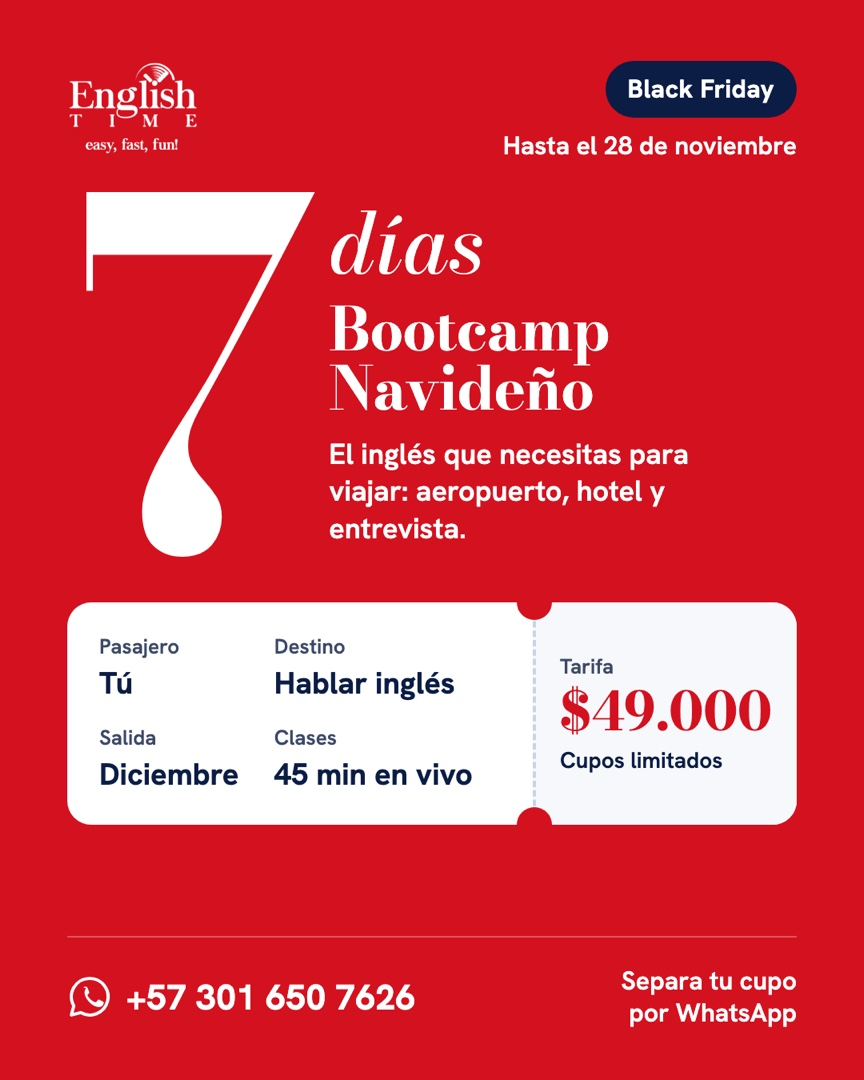
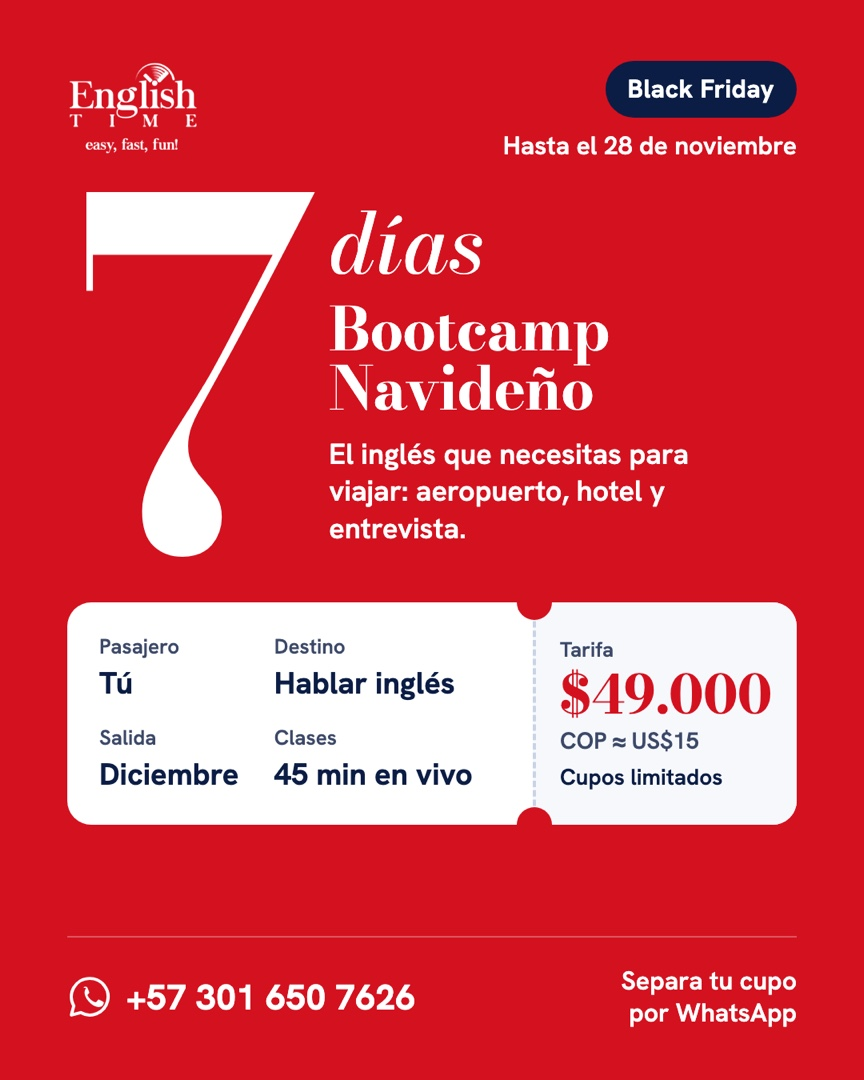
Dólares en las 5 publicidades y "clases grupales" en vez de "clases en grupo"
- Cada precio de las piezas dice COP y su equivalente aproximado en dólares. Lo calcula el script de piezas.html con la misma TRM y el mismo redondeo de usd().
- Plan 90 queda un poco más compacto para que quepan los dólares bajo cada precio.
- El sitio, el SEO y llms.txt dicen "clases grupales".

Changed region(s): [[0.625, 0.5806, 0.9062, 0.7333]]

diff --git a/web/public/piezas/piezas.html b/web/public/piezas/piezas.html
@@ -101,7 +101,7 @@ body.solo .ad:not(.on) { display: none; }
 }
 .pass .stub::before { top: -22px; }
 .pass .stub::after { bottom: -22px; }
-.pass .stub span { font-size: 26px; font-weight: 600; color: #5a6680; }
+.pass .stub > span { font-size: 26px; font-weight: 600; color: #5a6680; }
 .pass .stub b { font-family: 'Bodoni Moda', serif; font-size: 66px; font-weight: 700; color: var(--rojo); line-height: 1; margin-top: 6px; }
 .pass .stub i { font-style: normal; font-size: 28px; font-weight: 600; margin-top: 10px; color: var(--noche); }
 
@@ -140,7 +140,7 @@ body.solo .ad:not(.on) { display: none; }
   padding: 18px 0; border-top: 2px solid rgba(255,255,255,.18);
 }
 .tabla .row:last-child { border-bottom: 2px solid rgba(255,255,255,.18); }
-.tabla .row span { font-size: 38px; font-weight: 600; }
+.tabla .row > span { font-size: 38px; font-weight: 600; }
 .tabla .row s { font-size: 32px; opacity: .55; }
 .tabla .row b { font-family: 'Bodoni Moda', serif; font-size: 54px; font-weight: 700; }
 
@@ -155,7 +155,7 @@ body.solo .ad:not(.on) { display: none; }
 .congela p { font-size: 37px; line-height: 1.32; margin-top: 28px; max-width: 860px; color: #24345a; position: relative; z-index: 2; }
 .precios { display: flex; gap: 18px; margin-top: 48px; position: relative; z-index: 2; }
 .precios div { flex: 1; min-width: 0; background: #fff; border-radius: 26px; padding: 24px 22px 22px; }
-.precios span { display: block; font-size: 28px; font-weight: 600; color: #4a5a7d; }
+.precios div > span { display: block; font-size: 28px; font-weight: 600; color: #4a5a7d; }
 .precios b { display: block; font-family: 'Bodoni Moda', serif; font-size: 50px; font-weight: 700; margin-top: 6px; }
 .congela .cuotas { margin-top: 30px; font-size: 36px; font-weight: 700; color: var(--rojo); position: relative; z-index: 2; }
 /* precios: tamaño óptico de texto para que los trazos finos aguanten en el teléfono */
@@ -167,14 +167,31 @@ body.solo .ad:not(.on) { display: none; }
 .dosporuno h2, .congela h2 { font-weight: 700; font-optical-sizing: none; font-variation-settings: 'opsz' 28; letter-spacing: -.01em; }
 .dosporuno p, .congela p { color: var(--noche); font-weight: 500; }
 .dosporuno .foot .note, .congela .foot .note, .dosporuno .badge small, .congela .badge small { opacity: 1; font-weight: 600; }
-.pass .f span, .pass .stub span { color: #3B4868; }
-.precios span { color: #33415F; }
+.pass .f span, .pass .stub > span { color: #3B4868; }
+.precios div > span { color: #33415F; }
 .plan90 h2, .bootcamp .side h2 { font-weight: 700; font-optical-sizing: none; font-variation-settings: 'opsz' 28; letter-spacing: -.01em; }
 .tabla .row s { opacity: .72; }
 .bootcamp .badge small, .bootcamp .foot .note, .bootcamp .side p, .plan90 .foot .note { opacity: 1; font-weight: 600; }
 .dosporuno .num .x { font-weight: 500; font-optical-sizing: none; font-variation-settings: 'opsz' 6; }
 .stamp span { font-weight: 600; font-optical-sizing: none; font-variation-settings: 'opsz' 18; }
 .portada .intro, .plan90 .sub, .portada .badge small, .plan90 .badge small { opacity: .95; }
+
+/* Moneda: cada precio dice COP y su equivalente aproximado en dólares (lo calcula el script del final con la TRM). */
+.moneda {
+  display: block; font-family: 'Hanken Grotesk', sans-serif; font-style: normal; font-size: 29px; font-weight: 600;
+  line-height: 1.18; letter-spacing: 0; font-variation-settings: normal; white-space: nowrap;
+}
+.portada li .monto { display: flex; align-items: center; gap: 16px; }
+.portada li .moneda { font-size: 28px; opacity: .88; }
+.pass .stub .moneda { color: #3B4868; margin-top: 8px; }
+.tabla .row { padding: 13px 0; }
+.plan90 .num { font-size: 330px; }
+.plan90 .hero { margin-top: 26px; }
+.plan90 h2 { margin-top: 34px; }
+.tabla { margin-top: 30px; }
+.tabla .row b { text-align: right; }
+.tabla .row .moneda { opacity: .88; margin-top: 2px; }
+.precios .moneda { color: #33415F; margin-top: 6px; font-size: 27px; }
 /* Números gigantes, cursivas y titular de portada: corte de Bodoni con trazos finos más gruesos,
    para que no "vibren" ni se pierdan en el teléfono. */
 .num, .portada h1 { font-optical-sizing: none; font-variation-settings: 'opsz' 36; }
@@ -217,8 +234,8 @@ body.solo .ad:not(.on) { display: none; }
   <h1>Es hora de hablar inglés.</h1>
   <p class="intro">Cuatro promociones para empezar ya.</p>
   <ul>
-    <li>Bootcamp Navideño <b>$49.000</b></li>
-    <li>Paga un mes, estudia dos <b>$480.000</b></li>
+    <li>Bootcamp Navideño <span class="monto"><b>$49.000</b><small class="moneda">COP<br>≈ <span data-cop="49000">US$15</span></small></span></li>
+    <li>Paga un mes, estudia dos <span class="monto"><b>$480.000</b><small class="moneda">COP<br>≈ <span data-cop="480000">US$150</span></small></span></li>
     <li>Plan 90, trimestral <b>15% menos</b></li>
     <li>Congela tu precio <b>2026 en 2027</b></li>
   </ul>
@@ -250,7 +267,7 @@ body.solo .ad:not(.on) { display: none; }
       <div class="f"><span>Salida</span><strong>Diciembre</strong></div>
       <div class="f"><span>Clases</span><strong>45 min en vivo</strong></div>
     </div>
-    <div class="stub"><span>Tarifa</span><b>$49.000</b><i>Cupos limitados</i></div>
+    <div class="stub"><span>Tarifa</span><b>$49.000</b><small class="moneda">COP ≈ <span data-cop="49000">US$15</span></small><i>Cupos limitados</i></div>
   </div>
   <div class="foot">
     <div class="wa"><svg><use href="#wa"/></svg>+57 301 650 7626</div>
@@ -267,7 +284,7 @@ body.solo .ad:not(.on) { display: none; }
   </div>
   <div class="num">2<span class="x">×</span>1</div>
   <h2>Paga un mes, estudia dos.</h2>
-  <p>Pack de 8 clases al mes, 2 veces por semana. Pagas <strong>$480.000</strong> y el segundo mes va por nuestra cuenta.</p>
+  <p>Pack de 8 clases al mes, 2 veces por semana. Pagas <strong>$480.000 COP</strong> (unos <span data-cop="480000">US$150</span>) y el segundo mes va por nuestra cuenta.</p>
   <div class="stamp"><div><span>solo</span><b>5</b><span>cupos</span></div></div>
   <img class="mascota" src="../assets/mascota.webp" alt="">
   <div class="foot">
@@ -287,13 +304,13 @@ body.solo .ad:not(.on) { display: none; }
   <h2>Tres meses, 15% menos.</h2>
   <p class="sub">Plan trimestral de clases 1 a 1, en un solo pago.</p>
   <div class="tabla">
-    <div class="row"><span>2 veces por semana</span><s>$1.440.000</s><b>$1.220.000</b></div>
-    <div class="row"><span>3 veces por semana</span><s>$2.100.000</s><b>$1.780.000</b></div>
-    <div class="row"><span>4 veces por semana</span><s>$2.550.000</s><b>$2.160.000</b></div>
+    <div class="row"><span>2 veces por semana</span><s>$1.440.000</s><b>$1.220.000<small class="moneda">COP ≈ <span data-cop="1220000">US$375</span></small></b></div>
+    <div class="row"><span>3 veces por semana</span><s>$2.100.000</s><b>$1.780.000<small class="moneda">COP ≈ <span data-cop="1780000">US$550</span></small></b></div>
+    <div class="row"><span>4 veces por semana</span><s>$2.550.000</s><b>$2.160.000<small class="moneda">COP ≈ <span data-cop="2160000">US$665</span></small></b></div>
   </div>
   <div class="foot">
     <div class="wa"><svg><use href="#wa"/></svg>+57 301 650 7626</div>
-    <div class="note">Ahorras hasta $390.000</div>
+    <div class="note">Ahorras hasta<br>$390.000 COP ≈ <span data-cop="390000">US$120</span></div>
   </div>
 </section>
 
@@ -321,9 +338,9 @@ body.solo .ad:not(.on) { display: none; }
   <h2>Congela tu precio.</h2>
   <p>Inscríbete antes del 28 de noviembre y estudia todo 2027 con la tarifa de 2026.</p>
   <div class="precios">
-    <div><span>2 por semana</span><b>$480.000</b></div>
-    <div><span>3 por semana</span><b>$700.000</b></div>
-    <div><span>4 por semana</span><b>$850.000</b></div>
+    <div><span>2 por semana</span><b>$480.000</b><small class="moneda">COP ≈ <span data-cop="480000">US$150</span></small></div>
+    <div><span>3 por semana</span><b>$700.000</b><small class="moneda">COP ≈ <span data-cop="700000">US$215</span></small></div>
+    <div><span>4 por semana</span><b>$850.000</b><small class="moneda">COP ≈ <span data-cop="850000">US$265</span></small></div>
   </div>
   <div class="cuotas">Tu primer mes en dos cuotas: 50% hoy y 50% en enero.</div>
   <div class="foot">
@@ -333,6 +350,14 @@ body.solo .ad:not(.on) { display: none; }
 </section>
 
 <script>
+  // Dólares aproximados con la misma TRM y el mismo redondeo de usd() en lib/contenido.tsx.
+  // Si cambia la TRM, cámbiala aquí y allá, y corre npm run piezas.
+  const TRM = 3237.83;
+  document.querySelectorAll('[data-cop]').forEach((el) => {
+    const v = Number(el.dataset.cop) / TRM, r = v >= 100 ? Math.round(v / 5) * 5 : Math.round(v);
+    el.textContent = 'US$' + r.toLocaleString('en-US');
+  });
+
   const p = new URLSearchParams(location.search).get('p');
   if (p) {
     document.body.classList.add('solo');

diff --git a/web/lib/contenido.tsx b/web/lib/contenido.tsx
@@ -9,7 +9,7 @@ export const SITIO = (process.env.NEXT_PUBLIC_SITE_URL ?? 'https://englishtime.c
 export const NEGOCIO = {
   nombre: 'English Time',
   lema: 'easy, fast, fun!',
-  descripcion: 'Academia de inglés en línea con clases en vivo por Zoom, particulares 1 a 1 y en grupo, para estudiantes en cualquier país. Tú escoges el horario, empiezas en tu nivel, hablas desde el primer día y tus clases particulares nunca se pierden: si no puedes asistir, se reprograman.',
+  descripcion: 'Academia de inglés en línea con clases en vivo por Zoom, particulares 1 a 1 y grupales, para estudiantes en cualquier país. Tú escoges el horario, empiezas en tu nivel, hablas desde el primer día y tus clases particulares nunca se pierden: si no puedes asistir, se reprograman.',
 };
 
 export const WHATSAPP = '573016507626';
@@ -91,7 +91,7 @@ export const ESCENAS: Escena[] = [
 ];
 
 export const VERSUS: { antes: string; despues: string }[] = [
-  { antes: 'Salones de 30, donde hablas dos minutos por clase.', despues: 'Clases particulares 1 a 1 o en grupo, hechas para que hables.' },
+  { antes: 'Salones de 30, donde hablas dos minutos por clase.', despues: 'Clases particulares 1 a 1 o grupales, hechas para que hables.' },
   { antes: 'Si faltas a una clase, la pierdes.', despues: 'Si no puedes asistir, tu clase se reprograma. Nunca la pierdes.' },
   { antes: 'Gramática en el tablero y cero conversación.', despues: 'Hablas desde el primer día, a tu nivel.' },
   { antes: 'Horarios fijos y tráfico para llegar a la academia.', despues: 'En vivo por Zoom, desde tu casa y en el horario que tú escojas.' },
@@ -101,7 +101,7 @@ export const VERSUS: { antes: string; despues: string }[] = [
 
 export const PASOS: { titulo: string; texto: string }[] = [
   { titulo: 'Le escribes a Luis por WhatsApp.', texto: 'Le cuentas para qué quieres el inglés y cuánto tiempo tienes.' },
-  { titulo: 'Escoges tu plan y tu horario.', texto: 'Clases particulares o en grupo, un plan mensual o una promo de Black Friday.' },
+  { titulo: 'Escoges tu plan y tu horario.', texto: 'Clases particulares o grupales, un plan mensual o una promo de Black Friday.' },
   { titulo: 'Hablas en tu primera clase.', texto: 'Desde el primer día, a tu nivel y sin pena.' },
 ];
 
@@ -112,7 +112,7 @@ export const CINTA: { texto: string; destacado?: string }[] = [
   { texto: 'Paga un mes, estudia dos' },
   { texto: 'Plan 90: ', destacado: '15% menos' },
   { texto: 'Congela tu precio ', destacado: '2026' },
-  { texto: 'Clases particulares y en grupo por Zoom' },
+  { texto: 'Clases particulares y grupales por Zoom' },
   { texto: 'Tus clases nunca se pierden' },
   { texto: 'Preparación para la ciudadanía americana' },
 ];
@@ -178,7 +178,7 @@ export const PLANES: { veces: string; clases: string; precio: string; porClase: 
 ];
 
 export const PREGUNTAS: { pregunta: string; respuesta: string }[] = [
-  { pregunta: '¿Hay clases particulares y clases en grupo?', respuesta: 'Sí, las dos, siempre en vivo por Zoom. En las clases particulares 1 a 1 estás solo con tu profe y escoges el horario. En las clases en grupo estudias con otros estudiantes, en un horario fijo y a un precio más bajo.' },
+  { pregunta: '¿Hay clases particulares y clases grupales?', respuesta: 'Sí, las dos, siempre en vivo por Zoom. En las clases particulares 1 a 1 estás solo con tu profe y escoges el horario. En las clases grupales estudias con otros estudiantes, en un horario fijo y a un precio más bajo.' },
   { pregunta: '¿Cómo son las clases de inglés personalizadas?', respuesta: 'Son clases 1 a 1 en vivo por Zoom: solo tú y tu profe. Avanzas a tu ritmo, en tu nivel y con conversación desde el primer día.' },
   { pregunta: '¿Las clases de inglés son online o presenciales?', respuesta: 'Son online, en vivo por Zoom. Puedes tomarlas desde cualquier país del mundo con una conexión a internet, y el horario se acuerda según tu zona horaria.' },
   { pregunta: '¿Qué pasa si no puedo asistir a una clase?', respuesta: 'Tu clase no se pierde: se reprograma para otro día y otra hora. Esto aplica para las clases personalizadas 1 a 1.' },
@@ -239,9 +239,9 @@ export const MODALIDADES: { id: 'particulares' | 'grupo'; titulo: string; texto:
     precio: '$480.000', detalle: 'COP al mes', boton: 'Ver los planes',
   },
   {
-    id: 'grupo', titulo: 'Clases en grupo',
+    id: 'grupo', titulo: 'Clases grupales',
     texto: 'Estudias en vivo con otros estudiantes, en un horario fijo y a un precio más bajo. Como el Bootcamp Navideño de diciembre.',
-    precio: '$49.000', detalle: 'COP el Bootcamp de 7 días', boton: 'Preguntar por los grupos',
-    mensaje: 'Hola Luis, quiero información sobre las clases de inglés en grupo.',
+    precio: '$49.000', detalle: 'COP el Bootcamp de 7 días', boton: 'Preguntar por las clases grupales',
+    mensaje: 'Hola Luis, quiero información sobre las clases grupales de inglés.',
   },
 ];

diff --git a/web/lib/seo.ts b/web/lib/seo.ts
@@ -2,11 +2,11 @@ import { FIN_PROMOS, GARANTIA, NEGOCIO, PLANES, PREGUNTAS, SITIO, TELEFONO, WHAT
 
 /* Palabras clave principales: guían títulos, descripciones y datos estructurados. */
 export const SEO = {
-  titulo: 'Clases de inglés online por Zoom: 1 a 1 y en grupo | English Time',
-  descripcion: 'Clases de inglés en vivo por Zoom, particulares 1 a 1 y en grupo, desde cualquier país. Preparación para certificaciones y ciudadanía americana. Precios en COP y USD.',
+  titulo: 'Clases de inglés online por Zoom: 1 a 1 y grupales | English Time',
+  descripcion: 'Clases de inglés en vivo por Zoom, particulares 1 a 1 y grupales, desde cualquier país. Preparación para certificaciones y ciudadanía americana. Precios en COP y USD.',
   palabrasClave: [
     'clases de inglés', 'clases de inglés online', 'clases de inglés personalizadas', 'aprender inglés',
-    'clases de inglés 1 a 1', 'clases particulares de inglés online', 'clases de inglés en grupo', 'profesor de inglés', 'inglés por Zoom', 'clases de inglés online desde cualquier país', 'clases de inglés Colombia',
+    'clases de inglés 1 a 1', 'clases particulares de inglés online', 'clases grupales de inglés', 'profesor de inglés', 'inglés por Zoom', 'clases de inglés online desde cualquier país', 'clases de inglés Colombia',
     'preparación examen de ciudadanía americana', 'clases de inglés para la ciudadanía', 'preparación para exámenes de certificación de inglés',
     'inglés conversacional', 'inglés para viajar', 'inglés para el trabajo', 'inglés desde cero',
     'curso de inglés online', 'clases particulares de inglés',
@@ -31,7 +31,7 @@ export function datosEstructurados() {
     areaServed: 'Worldwide',
     availableLanguage: ['es', 'en'],
     knowsAbout: [
-      'Inglés', 'Clases particulares de inglés', 'Clases de inglés en grupo', 'Inglés conversacional', 'Inglés para viajar', 'Inglés para el trabajo', 'Inglés desde cero',
+      'Inglés', 'Clases particulares de inglés', 'Clases grupales de inglés', 'Inglés conversacional', 'Inglés para viajar', 'Inglés para el trabajo', 'Inglés desde cero',
       'Preparación para el examen de ciudadanía de Estados Unidos', 'Preparación para exámenes de certificación de inglés',
     ],
     contactPoint: {
@@ -157,7 +157,7 @@ export function datosEstructurados() {
   const grupo = {
     '@type': 'Course',
     '@id': id('grupo'),
-    name: 'Clases de inglés en grupo por Zoom',
+    name: 'Clases grupales de inglés por Zoom',
     description: 'Clases de inglés en vivo por Zoom con otros estudiantes, en un horario fijo y a un precio más bajo que las clases particulares.',
     provider: proveedor,
     inLanguage: 'es',

diff --git a/web/components/secciones.tsx b/web/components/secciones.tsx
@@ -100,7 +100,7 @@ export function Heroe() {
       <div className="wrap hero-grid">
         <div className="texto-hero">
           <Saludo />
-          <Revelar as="h1" style={retraso('.25s')} tema="Clases de inglés en vivo por Zoom: particulares 1 a 1 y en grupo">Imagina un día hablando inglés.</Revelar>
+          <Revelar as="h1" style={retraso('.25s')} tema="Clases de inglés en vivo por Zoom: particulares 1 a 1 y grupales">Imagina un día hablando inglés.</Revelar>
           <p className="lead aparece" style={retraso('.75s')}>Sin traductor, sin pena y sin quedarte callado. Baja y vívelo hora por hora: así cambia tu vida cuando por fin hablas inglés.</p>
           <div className="acciones aparece" style={retraso('.95s')}>
             <a className="btn btn-rojo btn-brillo" href={wa(MENSAJES.general)} {...externo}><Icono id="wa" />Escribirle a Luis por WhatsApp</a>
@@ -400,7 +400,7 @@ export function Planes() {
     <section className="seccion blanco" id="planes" aria-labelledby="t-planes">
       <div className="wrap">
         <div className="encabezado">
-          <Revelar id="t-planes">Clases particulares o en grupo, siempre por Zoom.</Revelar>
+          <Revelar id="t-planes">Clases particulares o grupales, siempre por Zoom.</Revelar>
         </div>
 
         <ul className="modalidades">
@@ -480,7 +480,7 @@ export function PiePagina() {
     <footer>
       <div className="wrap">
         <img src="/assets/logo-blanco.webp" alt="English Time" width={200} height={144} loading="lazy" />
-        <span>© 2026 English Time. Clases de inglés por Zoom, particulares 1 a 1 y en grupo, desde cualquier país.</span>
+        <span>© 2026 English Time. Clases de inglés por Zoom, particulares 1 a 1 y grupales, desde cualquier país.</span>
       </div>
     </footer>
   );

diff --git a/web/app/layout.tsx b/web/app/layout.tsx
@@ -22,12 +22,12 @@ export const metadata: Metadata = {
     url: '/',
     siteName: NEGOCIO.nombre,
     title: 'English Time: imagina un día hablando inglés',
-    description: 'Clases de inglés en vivo por Zoom, particulares 1 a 1 y en grupo, desde cualquier país. Tu horario, tu nivel y tus clases particulares nunca se pierden.',
+    description: 'Clases de inglés en vivo por Zoom, particulares 1 a 1 y grupales, desde cualquier país. Tu horario, tu nivel y tus clases particulares nunca se pierden.',
   },
   twitter: {
     card: 'summary_large_image',
-    title: 'English Time: clases de inglés por Zoom, 1 a 1 y en grupo',
-    description: 'Clases de inglés online en vivo por Zoom, particulares y en grupo, a tu ritmo y en tu horario.',
+    title: 'English Time: clases de inglés por Zoom, 1 a 1 y grupales',
+    description: 'Clases de inglés online en vivo por Zoom, particulares y grupales, a tu ritmo y en tu horario.',
   },
   robots: {
     index: true,

diff --git a/web/app/globals.css b/web/app/globals.css
@@ -604,7 +604,7 @@ footer img { height: 44px; width: auto; }
 .mapa-chip:hover, .mapa-chip.foco { background: rgba(212,17,31,.24); border-color: rgba(255,107,117,.7); transform: translateY(-2px); }
 li.mapa-chip.origen { cursor: default; background: rgba(212,17,31,.2); border-color: rgba(255,107,117,.45); }
 
-/* ---------- modalidades: particulares y en grupo ---------- */
+/* ---------- modalidades: particulares y grupales ---------- */
 .modalidades { list-style: none; margin: 36px 0 0; padding: 0; display: grid; grid-template-columns: repeat(2, minmax(0, 1fr)); gap: 20px; }
 .modalidad { display: flex; flex-direction: column; align-items: flex-start; gap: 12px; padding: 30px 32px 24px; border-radius: 22px; }
 .modalidad-particulares { background: var(--noche); color: #fff; }

diff --git a/web/README.md b/web/README.md
@@ -15,8 +15,8 @@ npm run piezas   # regenera las 5 publicidades (PNG en ../publicidades y JPG en 
 
 | Qué | Archivo |
 |---|---|
-| Textos, precios, promociones, planes, modalidades (particulares y en grupo), preguntas y mensajes de WhatsApp | `lib/contenido.tsx` |
-| Tasa del dólar para los precios en USD (`TRM` y `FECHA_TRM`) | `lib/contenido.tsx` |
+| Textos, precios, promociones, planes, modalidades (particulares y grupales), preguntas y mensajes de WhatsApp | `lib/contenido.tsx` |
+| Tasa del dólar para los precios en USD (`TRM` y `FECHA_TRM`) | `lib/contenido.tsx` y el script del final de `public/piezas/piezas.html` |
 | Países del mapa (lista de texto) | `PAISES` en `lib/contenido.tsx` |
 | Rutas y puntos del mapa | `lib/mapa.ts`, `public/assets/mapa-*.svg` (se regeneran con `scripts/generar-mapa.mjs`) |
 | Diseño de las 5 publicidades (también son las tarjetas del carrusel) | `public/piezas/piezas.html` |
@@ -25,7 +25,7 @@ npm run piezas   # regenera las 5 publicidades (PNG en ../publicidades y JPG en 
 | Estilos | `app/globals.css` |
 | Título, descripción, imagen para compartir y saludo según la hora (script del `<head>`) | `app/layout.tsx` |
 
-Si cambia un precio, cámbialo en `lib/contenido.tsx` y en `public/piezas/piezas.html`, y corre `npm run piezas`. Los dólares se calculan solos con la `TRM`.
+Si cambia un precio, cámbialo en `lib/contenido.tsx` y en `public/piezas/piezas.html`, y corre `npm run piezas`. Los dólares se calculan solos con la `TRM`. Si cambia la TRM, cámbiala en los dos archivos y corre `npm run piezas`.
 
 Para agregar un país al mapa: súmalo a `DESTINOS` en `scripts/generar-mapa.mjs` y a `PAISES` en `lib/contenido.tsx`, y corre el script (las instrucciones están en su encabezado).
 
